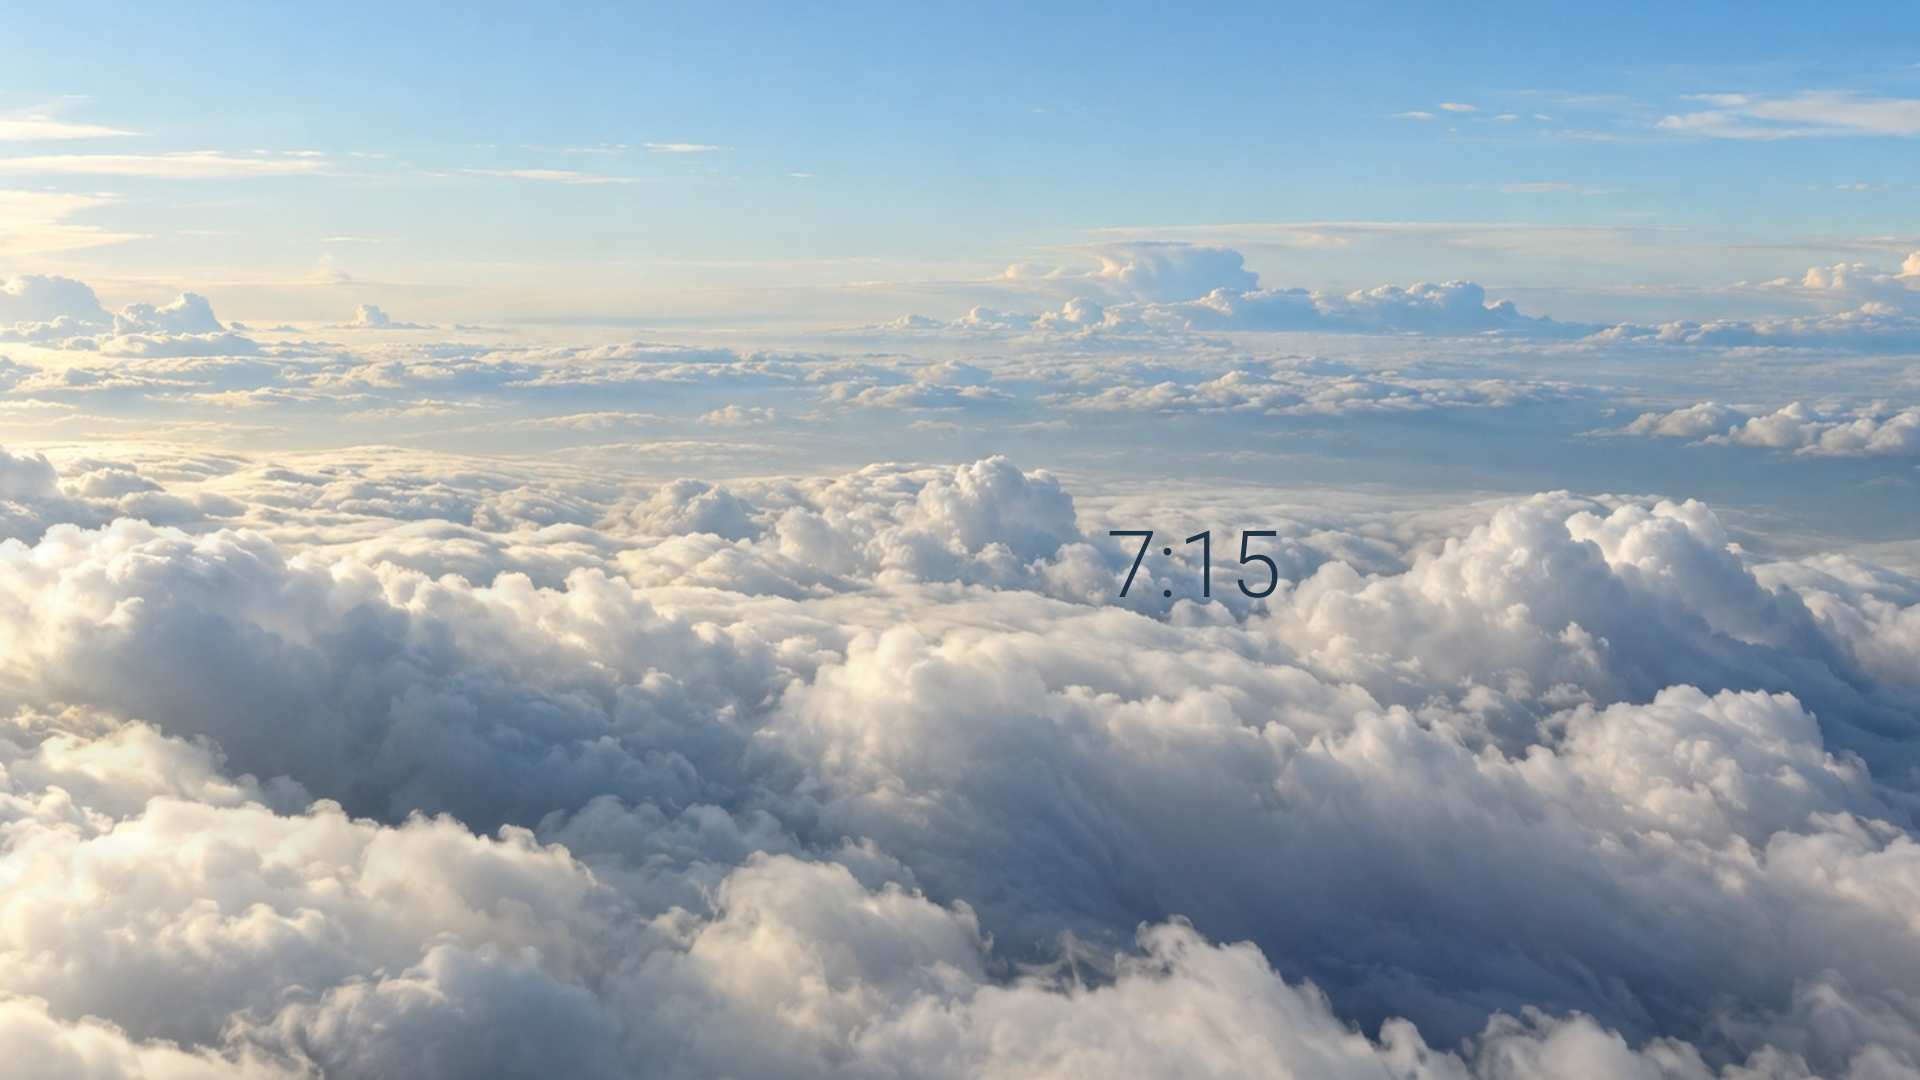
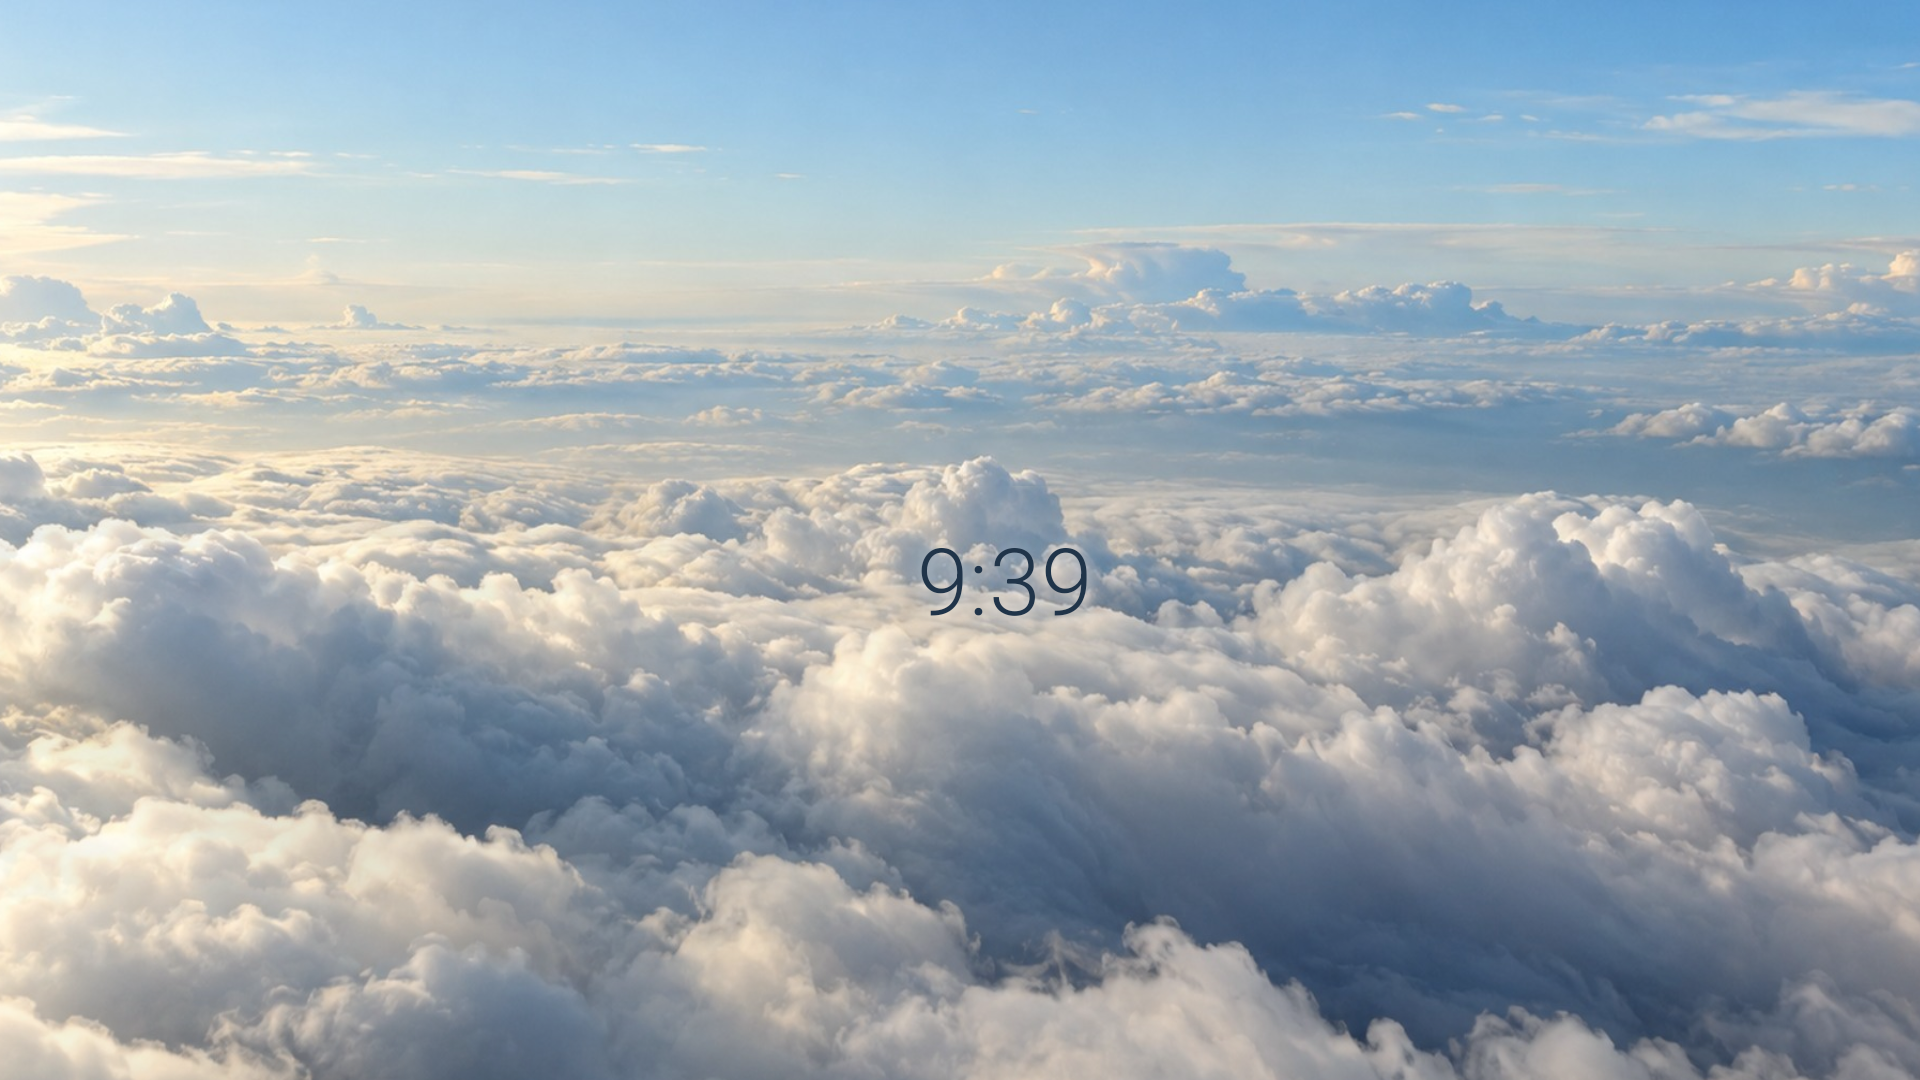
Refresh verified emulator preview

diff --git a/docs/VERIFICATION.md b/docs/VERIFICATION.md
@@ -2,7 +2,7 @@
 
 | Device | Status | Notes |
 | --- | --- | --- |
-| Android TV emulator, API 31, 1920 by 1080 | Settings screen and full-screen animation preview verified | DreamManager service is absent from this emulator image, so native DreamService selection and start were unavailable |
+| Android TV emulator, API 31, 1920 by 1080 | Settings screen and full-screen animation preview verified; settings schema and persisted updates queried through the provider; scene changed between captures | This emulator image does not expose the `cmd dream` service, so native DreamService selection and start were unavailable |
 | Fire TV hardware | Untested, no device was available | Please report device model, Fire OS version, resolution, selection/start behavior, and results in a [device test issue](https://github.com/jeremykenedy/cloud-drift-clock/issues/new?template=device-test.yml) |
 | Android TV hardware | Untested, no device was available | Please report device model, Android version, resolution, selection/start behavior, and results in a [device test issue](https://github.com/jeremykenedy/cloud-drift-clock/issues/new?template=device-test.yml) |
 | Google TV hardware | Untested, no device was available | Please report device model, Android version, resolution, selection/start behavior, and results in a [device test issue](https://github.com/jeremykenedy/cloud-drift-clock/issues/new?template=device-test.yml) |
